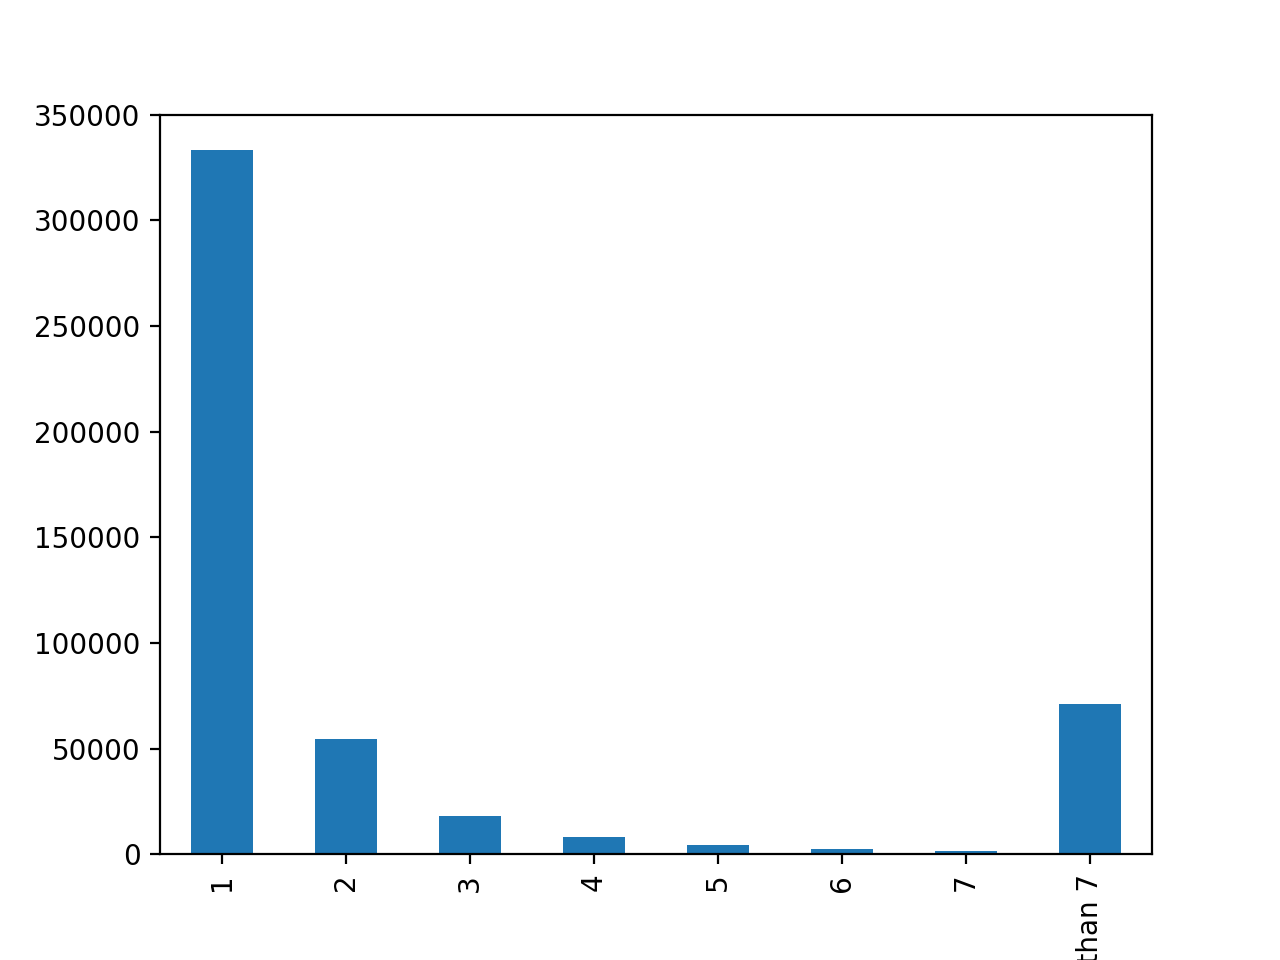
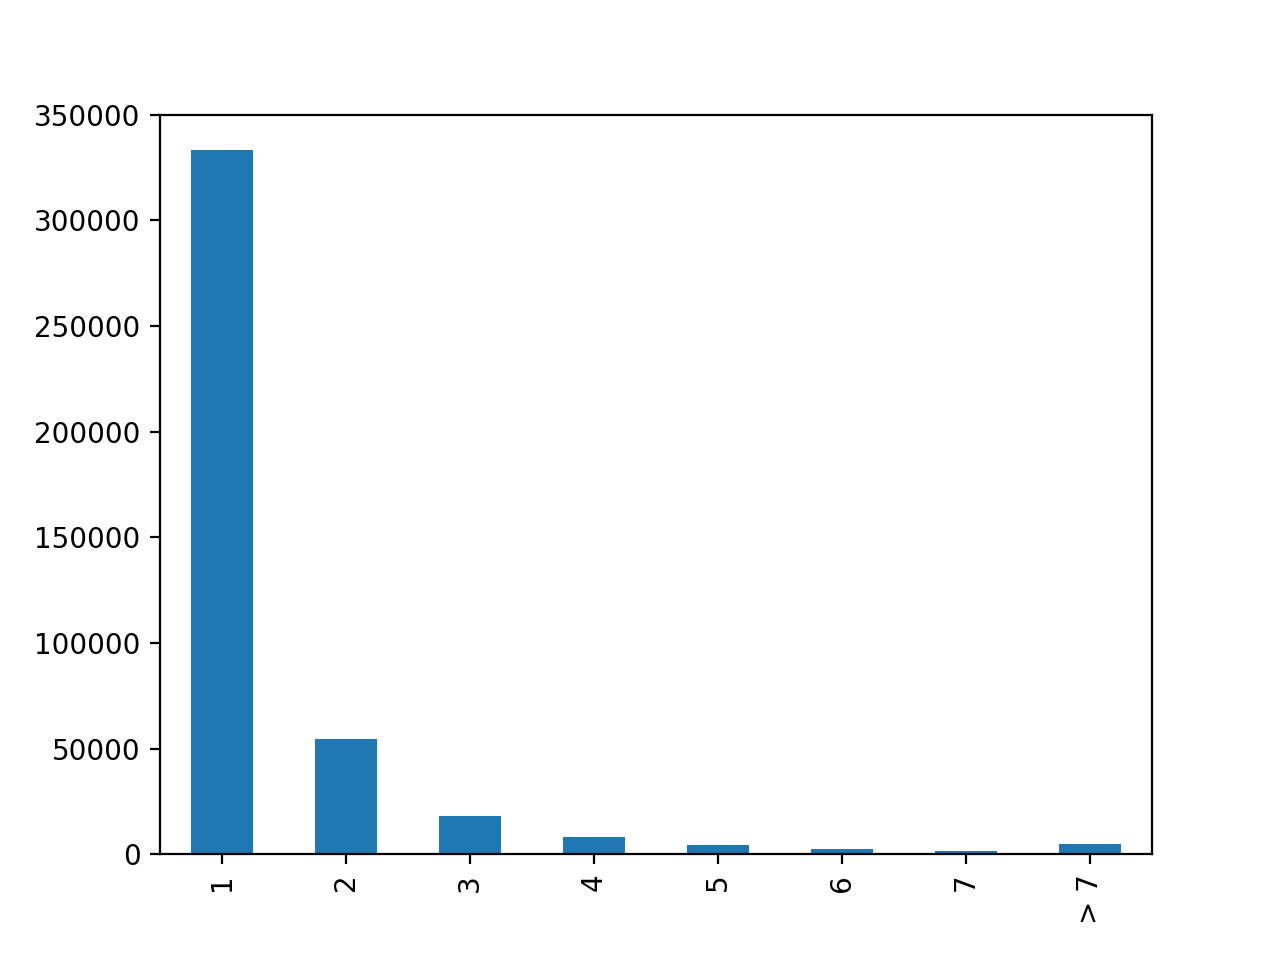
fixed error in user histogram

Changed region(s): [[0.8125, 0.7188, 0.875, 0.9062], [0.8438, 0.9375, 0.875, 1.0]]

diff --git a/data_sampling.py b/data_sampling.py
@@ -141,7 +141,8 @@ def random_user_sampling(relevant_data):
     quantile = list(num_table.quantile([.9, .95, .985])['count'])
     print("user ratings break down : ", quantile)
     distribution = num_table['count'].value_counts()
-    distribution.iloc[[7]] = num_table[num_table['count'] > 7].sum().values[0]
+
+    distribution.iloc[[7]] = num_table[num_table['count'] > 7].shape[0]
     distribution = distribution.iloc[0:8]
     distribution = distribution.rename(index={8: '> 7'})
     distribution.plot.bar()
